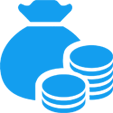
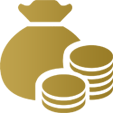
changedate

diff --git a/src/routes/IndexPage.scss b/src/routes/IndexPage.scss
@@ -1,4 +1,4 @@
-$color:rgb(20, 159, 240);
+$color:#a68d42;
 body{ background: url(../assets/images/indexbg.png) no-repeat left top ;color:#333; background-size:cover;}
 body,html{overflow: hidden;position: relative;}
 .index1{ width: 1920px;height: 960px;position: absolute; left: 50%; top: 0;margin-left: -960px;}
@@ -14,22 +14,22 @@ body,html{overflow: hidden;position: relative;}
 .indexBox .img5{left: 50%;bottom: 40px;position: absolute;margin-left: -960px;}
 .indexBox .img8{left: 50%;bottom: 0;position: absolute;margin-left: -960px;}
 .index1Box,.index3Box{ width: 1200px;height: 920px; position: absolute; left: 0; top: 0;}
-.index1Box .img1{ top:127px; left: 360px; position: absolute;}
-.index1Box .img2{ top:219px; left: 318px; position: absolute;}
+.index1Box .img1{ top:140px; left: 406px; position: absolute;}
+.index1Box .img2{ top:225px; left: 296px; position: absolute;}
 // .index1Box .img3{ top:830px; left: 262px; position: absolute;}
 // .index1Box .img4{left: 50%;bottom: 6px;position: absolute;margin-left: -960px;}
 // .index1Box .img5{left: 50%;bottom: 6px;position: absolute;margin-left: -960px;}
 // .index1Box .img8{left: 50%;bottom: 0;position: absolute;margin-left: -960px;}
 .index1Box .img7{ top:445px; right: 13px; position: absolute;}
 .index1Box .img7:hover{cursor: pointer;}
-.index1Box .img6{ top:604px; left: 398px; position: absolute; cursor: pointer; width: 400px; text-align: center; background-color: $color; border-radius: 40px; transition:all .2s;display: flex;align-items: center;justify-content: center;height: 80px;}
-.index1Box .img6:hover{box-shadow: 3px 10px 10px rgba(78, 87, 254,.2);top:600px; }
+.index1Box .img6{ top:604px; left: 398px; position: absolute; cursor: pointer; width: 400px; text-align: center; border-radius: 40px; transition:all .2s;display: flex;align-items: center;justify-content: center;height: 80px; background-image:linear-gradient(to bottom right, #bea14b,rgb(155, 126, 40));}
+.index1Box .img6:hover{box-shadow: 3px 5px 10px rgba(155, 126, 40,.5);top:600px; }
 // .rightbtn{width: 400px;height: 56px;line-height: 56px;text-indent: 36px; background-color: #1ac572; border-radius: 6px; overflow: hidden; font-size: 24px; color:#fff; position: relative; left: 656px; top: 574px; letter-spacing: 15px; cursor: pointer;}
 // .rightbtn .btn{width: 75px;height: 56px;line-height: 56px; position: absolute; right: 0; top: 0; background-color: #0cb462; text-indent: 0; text-align: center}
 .rightbtn .btn img{ display: inline-block; margin: 0 auto; text-indent: 0}
 .index2{width: 1190px;height: 734px;position: fixed; left: 50%; top: 50%; margin-left: -595px;margin-top: -367px;}
 .navBox{ display: flex; flex-direction: row; color:#fff;}
-.navBox .navbg{ flex:1; text-align: center; height: 56px;line-height: 56px; font-size: 16px; color:#fff; background-color: rgba(20, 159, 240,.3);transition: all .2s;}
+.navBox .navbg{ flex:1; text-align: center; height: 56px;line-height: 56px; font-size: 16px; color:#fff; background-color: rgba(155, 126, 40,.3);transition: all .2s;}
 .navBox .navbg a{display: block; color:#fff; cursor: pointer;}
 .navBox .navbg a:hover,.navAHover{background-color:$color}
 .indexContent{position:absolute; left: 0; top:56px; right: 0; bottom:0; background-color: #fff;}
@@ -84,19 +84,19 @@ body,html{overflow: hidden;position: relative;}
 .flexChildRight .humanBox .humanCon .humanNum{ display: inline-block;height: 32px; line-height: 32px; text-align: left; position: relative;display: inline-block; vertical-align: middle;width: 180px;}
 .flexChildRight .humanBox .humanCon .humanNum:after{display: block;content: attr(data-hunmans); color:#fff; text-align:left; font-size: 14px; position: absolute; left:0; top: 0; text-indent: 5px}
 .flexChildRight .humanBox:nth-child(2) .humanNum{ background-color:$color; }
-.flexChildRight .humanBox .humanCon:last-child .humanNum{background-color:#5b6ee5; }
+.flexChildRight .humanBox .humanCon:last-child .humanNum{background-color:#d4c083; }
 .index3Text{ position: absolute;width: 324px; color:#fff; font-size: 18px;left: 222px; top:361px;}
 .index3Text span{ font-size: 28px;margin-left: 10px; font-weight: bold}
 .index3Box .img2{left: 695px;top: 281px; margin: 0}
-.index3Box .rightbtn{width: 240px; height: 48px; line-height: 48px; color:#fff; background-color: $color; border-radius: 24px;left: 219px;top: 482px; font-size: 18px; text-indent: 0 ; text-align: center; letter-spacing: 5px; transition:all .2s; position: absolute; cursor: pointer;}
-.index3Box .rightbtn:hover{box-shadow: 3px 3px 3px rgba(78, 87, 254,.5);top: 479px;}
+.index3Box .rightbtn{width: 240px; height: 48px; line-height: 48px; color:#fff; background-image:linear-gradient(to bottom right, #bea14b,rgb(155, 126, 40));border-radius: 24px;left: 219px;top: 482px; font-size: 18px; text-indent: 0 ; text-align: center; letter-spacing: 5px; transition:all .2s; position: absolute; cursor: pointer;}
+.index3Box .rightbtn:hover{box-shadow: 2px 2px 10px rgba(155, 126, 40,.5);top: 479px;}
 .index2Content .flexChild2{ display: block;padding-top: 45px;padding-top: 18px;}
 .index1Box{ z-index: 1000}
 .index2{ z-index:999; display:block}
 .index3Box{ z-index: 1000}
 .hideBox{ opacity: 0; z-index: -1}
 .index3Box .lbtn{ top: 446px;background: url(../assets/images/btnleft.png) no-repeat left top}
-.index2Box{position: absolute; left: 0; top: 0;right: 0; bottom: 0;}
+.index2Box{position: absolute; left: 0; top: 0;right: 0; bottom: 0; opacity: 0;}
 .fadeIn{ z-index: 9998;}
 .bdRightBox{ display: flex; justify-content: space-around;flex-wrap: wrap;align-items: center;height: 100%;}
 .bdRightBox .flexChildCon{ float: none; align-self:center;}
@@ -104,4 +104,5 @@ body,html{overflow: hidden;position: relative;}
 .index2BottomCon2{margin-top:-15px}
 .index2BottomCon2 .flexChild2{padding-top:0; height: 300px;}
 .index2Content7{ margin: 0 40px 0 0}
-
+.positionrelative{position: relative;}
+.index1bg{width: 100%;height: 100%;background-color: rgba(0,0,0,.5); position: fixed; left: 0; top:0}

diff --git a/src/components/index2Box/page1.js b/src/components/index2Box/page1.js
@@ -14,7 +14,7 @@ const Page1 = (props) => {
       <div className={styles.index2Title}>
         <img src={title} className={dataIndex==0?`${aniamteStyles.animated} ${aniamteStyles.fadeIn}`:`${aniamteStyles.animated} ${aniamteStyles.fadeOut}`} />
       </div>
-      <div className={styles.index2Content}><div className={dataIndex===0?`${aniamteStyles.animated} ${aniamteStyles.fadeIn} ${styles.zs}`:`${aniamteStyles.animated} ${aniamteStyles.fadeOut}  ${styles.zs}`}>国佳财富平台截止至{ajaxData[1]?ajaxData[1].data1:''}，平台成交量超过<span>{ajaxData[1]?ajaxData[1].data2:''}</span>万元，用户收益超<span>{ajaxData[1]?ajaxData[1].data3:''}</span>万元。平台自运营以来，一直坚持严格风控、信息透明的原则，规范运营，积极为客户提供更专业、高效、便捷、完善的创新金融服务。</div>
+      <div className={styles.index2Content}><div className={dataIndex===0?`${aniamteStyles.animated} ${aniamteStyles.fadeIn} ${styles.zs}`:`${aniamteStyles.animated} ${aniamteStyles.fadeOut}  ${styles.zs}`}>国佳财富平台截止至{ajaxData[1]?ajaxData[1].data1:''}，平台成交量超过<span>{ajaxData[1]?ajaxData[1].data2:''}</span>万元，用户收益超<span>{ajaxData[1]?ajaxData[1].data3:''}</span>万元。今年平台接入了国家互联网应急中心实时数据报送系统，顺利完成了对资金存管系统的全新升级，平台一直坚守初心 ，在稳健发展、合规运营之路上前行，并与出借人携手共进，共创辉煌。</div>
         <div className={styles.index2BottomCon}>
         <div className={dataIndex==0?`${aniamteStyles.animated} ${aniamteStyles.fadeIn} ${styles.flexChild}`:`${aniamteStyles.animated} ${aniamteStyles.fadeOut}  ${styles.flexChild}`}>
             <img src={img1} alt='' />

diff --git a/src/utils/changeData.js b/src/utils/changeData.js
@@ -28,7 +28,7 @@
           )
           //3出借方式
           pageDatas.push({
-              data1:['rgb(20, 159, 240)', '#cccccc'],
+              data1:['rgb(155, 126, 40)', '#cccccc'],
               data2:savePointTow(data.auto_invest_percent * 1000) + '%',
               data3:savePointTow(data.manual_invest_percent * 1000) +
               '%',
@@ -62,7 +62,7 @@
                 return {
                     value: i.month_borrow_count,
                     name:  i.month_borrow_day,
-                    money: tochangeMoney(i.month_borrow_money.toString().split('.')[0], 4),
+                    money: tochangeMoney(i.month_borrow_money.toString().split('.')[0], 4).split('<span>万</span>')[0]+'<span>万</span>',
                 }
             }):bd.map(function (i, index) {
                 return {
@@ -82,7 +82,7 @@
             }
           )
         }else{
-            alert('无数据，服务器错误！')
+            alert('未获取到当月数据！')
         }
           return pageDatas
       }

diff --git a/src/components/Index2.js b/src/components/Index2.js
@@ -15,7 +15,8 @@ const Example = (props) => {
   const {dispatch} = props
   console.log(props)
   return (
-    <div className={props.indexTitle.isFirstLoad2?`${styles.firstInit}`:``}  style={{zIndex:props.indexTitle.pageIndex==1?"9999":"-999"}}  >
+    <div className={props.indexTitle.isFirstLoad2?`${styles.firstInit}`:`${styles.positionrelative}`}  style={{zIndex:props.indexTitle.pageIndex==1?"9999":"-999"}}  >
+      <div className={pageIndex === 1? `${styles.index1bg} ${aniamteStyles.animated} ${aniamteStyles.fadeIn}`:`${styles.index1bg} ${aniamteStyles.animated} ${aniamteStyles.fadeOut}` } style={{opacity:0}}></div>
     <div className={pageIndex === 1? `${styles.index2} ${aniamteStyles.animated} ${aniamteStyles.fadeInUp}`:`${styles.index2} ${aniamteStyles.animated} ${aniamteStyles.fadeOutUp}` } style={{opacity:0}}>
       <div className={styles.navBox}>
       {props.navTitle.map((item, index)=>

diff --git a/src/models/indexpage.js b/src/models/indexpage.js
@@ -16,7 +16,7 @@ export default {
     sectionDisplayNone:'none',
     //当前页
     pageIndex: 0,
-    monthTitle: '11月份运营月报',
+    monthTitle: '',
     navTitle: ['01 综述', '02 成交量', '03 出借方式', '04 赚取收益', '05 已还本息', '06 项目分布', '07 用户注册'],
     //当前导航
     navCurIndex: 0,
@@ -40,7 +40,7 @@ export default {
       // dispatch({type:'runTrain'})
     }; 
     //设置标题
-    document.title = '11月份运营月报'; }
+    document.title = '12月份运营月报'; }
   },
 
   effects: {
